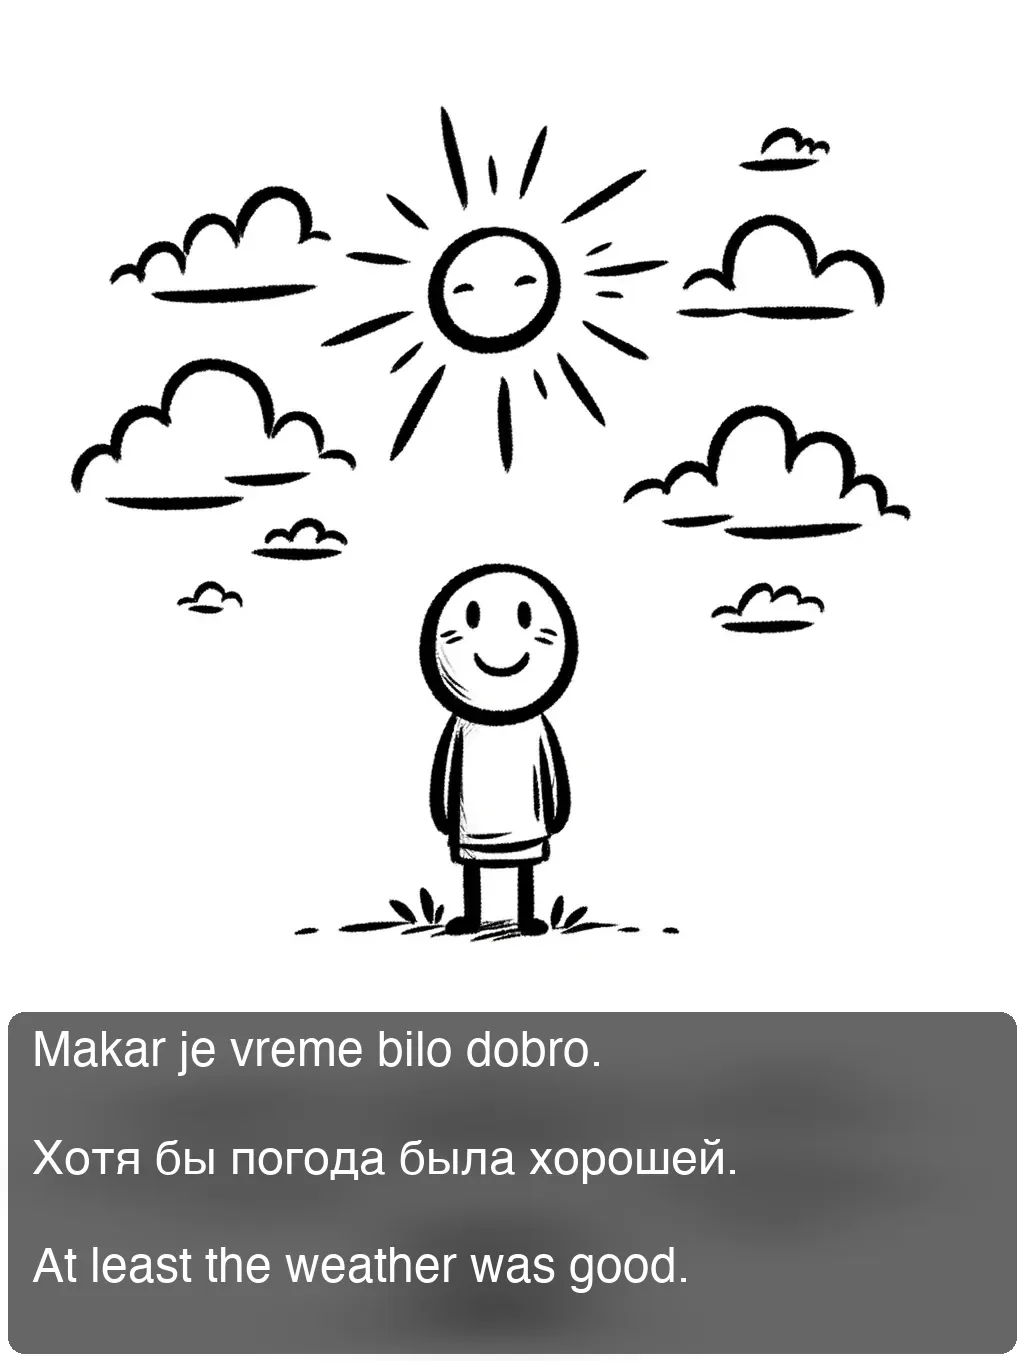
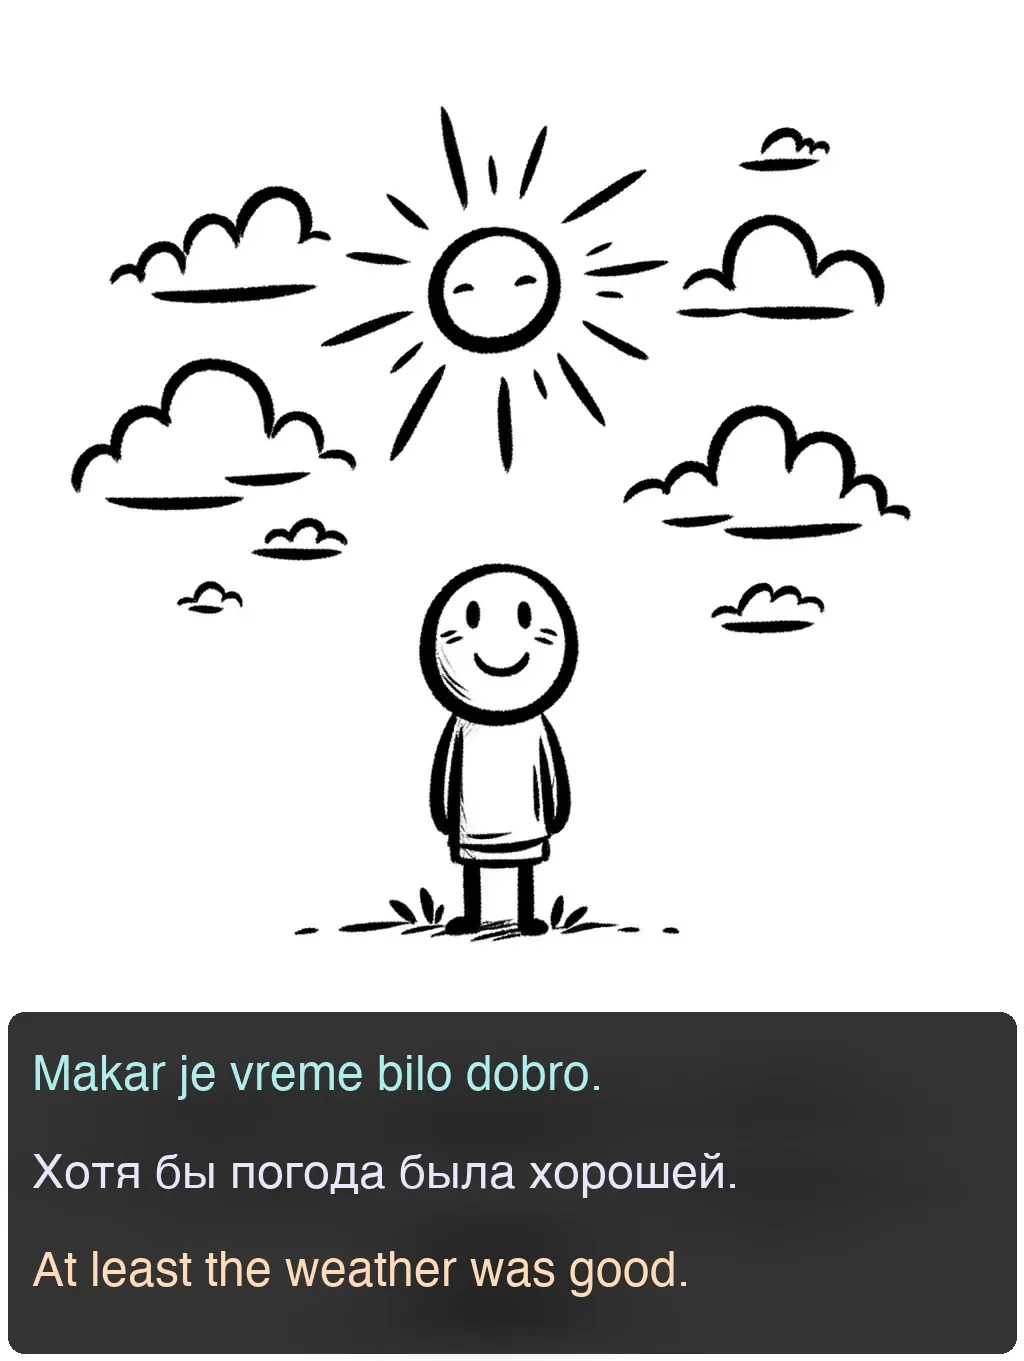
Some improvements

Changed region(s): [[0.0, 0.7406, 1.0, 1.0]]

diff --git a/chat-gpt/language-cards/add-text-to-images.py b/chat-gpt/language-cards/add-text-to-images.py
@@ -58,7 +58,7 @@ def add_text_to_image(image_path, output_path, text_sr, text_en, text_ru, font_p
     rect_image = Image.new('RGBA', image.size, (0, 0, 0, 0))
     rect_draw = ImageDraw.Draw(rect_image)
 
-    opacity = int(255 * 0.6)
+    opacity = int(255 * 0.8)
     text_y = image.height * 3 / 4 - 8;
     rect_draw.rounded_rectangle(
         [8, text_y, image.width - 8, image.height - 8], 
@@ -77,28 +77,49 @@ def add_text_to_image(image_path, output_path, text_sr, text_en, text_ru, font_p
     text_y += 16
 
     rows = []
+    colors = []
+    gaps = []
+
+    # (230, 230, 250, 225) # Лавандовый
+    # (175, 238, 238, 225) # Бледно-голубой
+    # (255, 218, 185, 225) # Пастельный персик
+
 
     text_width, text_height = get_text_dimensions(text_sr, font_sr)
     if text_width > image.width - 16:
         rows.extend(split_string_into_parts(text_sr, 2))
+        gaps.extend([(0, font_size + 2), (0, font_size + 2)])
+        colors.extend([(175, 238, 238, 225), (175, 238, 238, 225)])
     else:
-        rows.extend([text_sr, '\n'])
+        rows.extend([text_sr])
+        gaps.extend([(font_size * 0.5, font_size * 1.5 + 2)])
+        colors.extend([(175, 238, 238, 225)])
 
     text_width, text_height = get_text_dimensions(text_ru, font_sr)
     if text_width > image.width - 16:
         rows.extend(split_string_into_parts(text_ru, 2))
+        gaps.extend([(8, font_size + 2), (0, font_size + 2)])
+        colors.extend([(230, 230, 250, 225), (230, 230, 250, 225)])
     else:
-        rows.extend([text_ru, '\n'])
+        rows.extend([text_ru])
+        gaps.extend([(font_size * 0.5, font_size * 1.5 + 2)])
+        colors.extend([(230, 230, 250, 225)])
 
-    text_width, text_height = get_text_dimensions(text_ru, font_sr)
+    text_width, text_height = get_text_dimensions(text_en, font_sr)
     if text_width > image.width - 16:
         rows.extend(split_string_into_parts(text_en, 2))
+        gaps.extend([(8, font_size + 2), (0, font_size + 2)])
+        colors.extend([(255, 218, 185, 225), (255, 218, 185, 225)])
     else:
-        rows.extend([text_en, '\n'])
+        rows.extend([text_en])
+        gaps.extend([(font_size * 0.5, font_size * 1.5 + 2)])
+        colors.extend([(255, 218, 185, 225)])
 
     for i, r in enumerate(rows):
-        draw.text((text_x, text_y), r, fill=text_color, font=font_sr)
-        text_y += font_size + 2 + (8 if i % 2 == 1 else 0)
+        top, bottom = gaps[i]
+        text_y += top
+        draw.text((text_x, text_y), r, fill=colors[i], font=font_sr)
+        text_y += bottom
 
     # Save the image
     image.save(output_path)
@@ -120,4 +141,3 @@ for item in data:
 
     # Call the function
     add_text_to_image(image_path, output_path, text_sr, text_en, text_ru, font_path)
-
